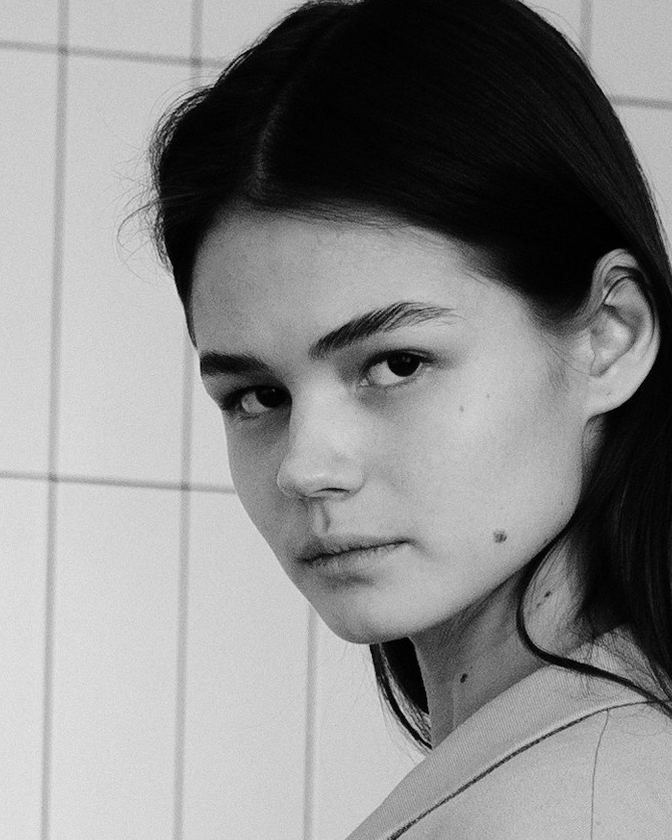
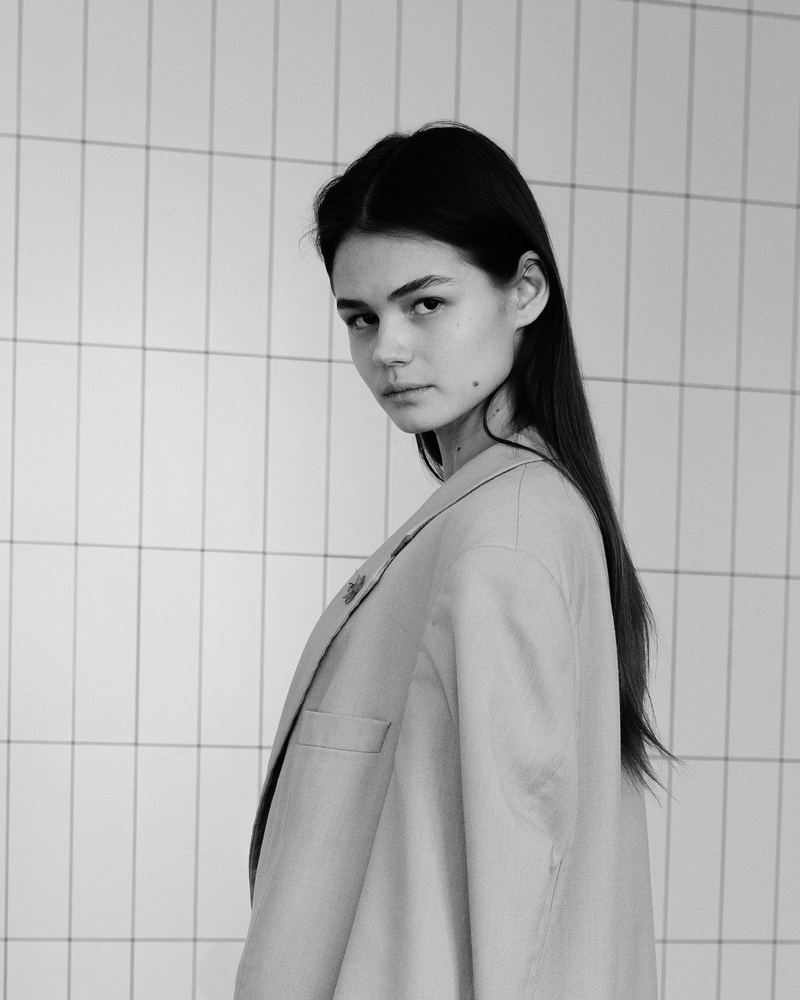
Top-align the hero and frame posters with headroom.
The headline sits under the header rule, and the poster mosaic matches that column: 9:16 as the tall anchor, 4:5 over 1:1, 16:9 across the bottom. The default crop keeps a face on the upper third with hair and shoulders in frame.

diff --git a/src/styles.css b/src/styles.css
@@ -122,10 +122,10 @@ html[lang="zh-Hans"] .lang.is-on { font-weight: 700; }
 
 .hero {
   display: grid;
-  grid-template-columns: minmax(0, 1.15fr) minmax(260px, 0.85fr);
-  gap: 36px 40px;
-  align-items: end;
-  margin-top: 40px;
+  grid-template-columns: minmax(0, 1fr) minmax(220px, 360px);
+  column-gap: 40px;
+  align-items: start;
+  margin-top: 28px;
 }
 
 .tagline {
@@ -165,29 +165,57 @@ html[lang="zh-Hans"] .lede {
 
 .block { margin-top: 88px; }
 
+/* Mosaic matches the copy column. 9:16 is the tall left anchor, 4:5 over 1:1,
+   16:9 across the bottom. Ratios assume a 2cqw gutter (see frame comment in crop). */
 .posters {
-  display: grid;
-  grid-template-columns: minmax(120px, 0.72fr) minmax(0, 1fr);
-  grid-template-areas:
-    "tall square"
-    "tall four"
-    "wide wide";
-  gap: 12px 14px;
-  align-items: end;
-  height: auto;
+  position: relative;
+  align-self: stretch;
+  min-height: 100%;
+  margin: 0;
+  container-type: size;
+}
+.mosaic {
+  position: absolute;
+  top: 0;
+  right: 0;
+  width: min(100cqw, calc(100cqh * 0.639154));
+  aspect-ratio: 0.639154;
+  container-type: inline-size;
+}
+.mosaic-inner {
+  display: flex;
+  flex-direction: column;
+  gap: 2cqw;
+  height: 100%;
+}
+.poster-top {
+  display: flex;
+  flex: 2.2968 1 0;
+  gap: 2cqw;
+  min-height: 0;
+}
+.poster-side {
+  display: flex;
+  flex: 1 1 0;
+  flex-direction: column;
+  gap: 2cqw;
+  min-width: 0;
+  min-height: 0;
+}
+.poster {
+  position: relative;
+  min-width: 0;
   min-height: 0;
   margin: 0;
 }
-.poster {
-  display: flex;
-  flex-direction: column;
-  min-width: 0;
-  margin: 0;
-}
+.poster-916 { flex: 1.2919 1 0; }
+.poster-45 { flex: 1.25 1 0; }
+.poster-11 { flex: 1 1 0; }
+.poster-169 { flex: 1.3155 1 0; }
 .poster img {
   width: 100%;
-  height: auto;
-  object-fit: contain;
+  height: 100%;
+  object-fit: cover;
   object-position: center;
   border: 1px solid var(--ink);
   border-radius: 0;
@@ -196,7 +224,9 @@ html[lang="zh-Hans"] .lede {
   background: var(--paper);
 }
 .poster figcaption {
-  margin-top: 6px;
+  position: absolute;
+  left: 7px;
+  bottom: 7px;
   color: var(--accent);
   font-family: var(--mono);
   font-size: 11px;
@@ -204,10 +234,6 @@ html[lang="zh-Hans"] .lede {
   letter-spacing: 0.04em;
   line-height: 1;
 }
-.poster-916 { grid-area: tall; }
-.poster-45 { grid-area: square; }
-.poster-11 { grid-area: four; }
-.poster-169 { grid-area: wide; }
 
 .drop {
   display: flex;
@@ -607,7 +633,23 @@ html[lang="zh-Hans"] .checked { letter-spacing: 0; }
   .hero-copy { display: contents; }
   .tagline { order: 1; }
   .lede { order: 2; }
-  .posters { order: 3; height: auto; min-height: 0; max-width: 560px; }
+  .posters {
+    order: 3;
+    position: relative;
+    align-self: auto;
+    width: 100%;
+    max-width: 420px;
+    height: auto;
+    min-height: 0;
+    container-type: normal;
+  }
+  .mosaic {
+    position: relative;
+    top: auto;
+    right: auto;
+    width: 100%;
+    aspect-ratio: 0.639154;
+  }
   #hero-slot { order: 4; }
   .hero {
     grid-template-columns: 1fr;

diff --git a/src/crop/frame.ts b/src/crop/frame.ts
@@ -69,16 +69,23 @@ function inSafe(fx: number, fy: number, safe: SafeFrac | null): boolean {
 }
 
 /**
+ * Where a subject sits when nothing is covering the frame.
+ * Upper third, not the middle: campaign-poster framing, with room above the head.
+ */
+const OPEN_ANCHOR = { x: 0.5, y: 0.33 };
+
+/**
  * Cover-crop of `targetW/targetH` inside the source.
- * The window shifts toward the safe-area centroid. It zooms in only when a
- * shift still leaves the subject under a covered band, or when the subject
- * is small enough to fill the safe area.
+ * The window shifts toward the safe-area centroid, or the upper third when
+ * the frame is open. It zooms in only when a shift still leaves the subject
+ * under a covered band, or when the subject is small enough to fill its share
+ * of the frame. That share stays loose so a face box keeps hair and shoulders.
  */
 export function frameCrop(input: FrameInput): CropRect {
   const { srcW, srcH, targetW, targetH } = input;
   const aspect = targetW / targetH;
   const base = maxCropSize(srcW, srcH, targetW, targetH);
-  const anchor = input.safe ? safeAnchor(input.safe) : { x: 0.5, y: 0.5 };
+  const anchor = input.safe ? safeAnchor(input.safe) : OPEN_ANCHOR;
   const subject = input.subject;
 
   let cw = base.w;
@@ -87,7 +94,9 @@ export function frameCrop(input: FrameInput): CropRect {
   if (subject && subject.w > 1 && subject.h > 1) {
     const safeW = input.safe ? Math.max(0.25, 1 - input.safe.left - input.safe.right) : 0.82;
     const safeH = input.safe ? Math.max(0.25, 1 - input.safe.top - input.safe.bottom) : 0.82;
-    const fill = 0.72;
+    // 0.28 × 0.82 ≈ 23% of an open frame, so a face box keeps hair above it and shoulders below.
+    // 0.72 framed that same box like a passport crop.
+    const fill = 0.28;
     let wantH = subject.h / (fill * safeH);
     let wantW = wantH * aspect;
     const wantW2 = subject.w / (fill * safeW);

diff --git a/index.html b/index.html
@@ -44,21 +44,29 @@
         <div id="hero-slot"></div>
       </div>
       <figure class="posters">
-        <div class="poster poster-916">
-          <img src="/samples/hero/9x16.jpg" alt="" width="506" height="900">
-          <figcaption>9:16</figcaption>
-        </div>
-        <div class="poster poster-45">
-          <img src="/samples/hero/4x5.jpg" alt="" width="672" height="840">
-          <figcaption>4:5</figcaption>
-        </div>
-        <div class="poster poster-11">
-          <img src="/samples/hero/1x1.jpg" alt="" width="840" height="840">
-          <figcaption>1:1</figcaption>
-        </div>
-        <div class="poster poster-169">
-          <img src="/samples/hero/16x9.jpg" alt="" width="1100" height="619">
-          <figcaption>16:9</figcaption>
+        <div class="mosaic">
+          <div class="mosaic-inner">
+            <div class="poster-top">
+              <div class="poster poster-916">
+                <img src="/samples/hero/9x16.jpg" alt="" width="720" height="1280">
+                <figcaption>9:16</figcaption>
+              </div>
+              <div class="poster-side">
+                <div class="poster poster-45">
+                  <img src="/samples/hero/4x5.jpg" alt="" width="800" height="1000">
+                  <figcaption>4:5</figcaption>
+                </div>
+                <div class="poster poster-11">
+                  <img src="/samples/hero/1x1.jpg" alt="" width="900" height="900">
+                  <figcaption>1:1</figcaption>
+                </div>
+              </div>
+            </div>
+            <div class="poster poster-169">
+              <img src="/samples/hero/16x9.jpg" alt="" width="1280" height="720">
+              <figcaption>16:9</figcaption>
+            </div>
+          </div>
         </div>
       </figure>
     </div>

diff --git a/tests/crop.test.ts b/tests/crop.test.ts
@@ -125,6 +125,33 @@ describe("crop math", () => {
     inside(panned, 1920, 1080);
   });
 
+  it("puts a face on the upper third with room for hair and shoulders", () => {
+    const face = { cx: 1901, cy: 1245, w: 396, h: 396 };
+    for (const [targetW, targetH] of [
+      [9, 16],
+      [4, 5],
+      [1, 1],
+      [16, 9],
+    ] as const) {
+      const crop = frameCrop({
+        srcW: 4000,
+        srcH: 5600,
+        targetW,
+        targetH,
+        subject: face,
+        safe: null,
+      });
+      inside(crop, 4000, 5600);
+      const fy = (face.cy - crop.y) / crop.h;
+      expect(fy).toBeGreaterThan(0.28);
+      expect(fy).toBeLessThan(0.4);
+      const above = face.cy - face.h / 2 - crop.y;
+      expect(above).toBeGreaterThan(face.h * 0.6);
+      const below = crop.y + crop.h - (face.cy + face.h / 2);
+      expect(below).toBeGreaterThan(face.h);
+    }
+  });
+
   it("pulls the TikTok anchor left of center because of the icon column", () => {
     const anchor = safeAnchor({
       top: 0.125,

diff --git a/README.md b/README.md
@@ -24,7 +24,7 @@ npm run build
 - Nothing is selected at first. Platforms are tabs; the tab shows how many sizes are picked. Quick picks cover 9:16 stories and reels, feed squares, vertical, landscape, and all.
 - Outputs are de-duplicated by exact pixel size. One file can cover several placements; the grid and `manifest.txt` say which. `1200×628` and `800×418` stay separate, because 1.911 and 1.914 are not the same crop.
 - JPG, PNG, and WebP are drawn to a canvas and zipped. JPEG quality steps down to meet the strictest file-size limit on that size.
-- Faces, then people, are found with MediaPipe (BlazeFace, then EfficientDet). A person box that fills a wide frame is re-checked on overlapping halves so the crop sits on the body. If nothing is there, it uses the busiest part of the frame, then the center.
+- Faces, then people, are found with MediaPipe (BlazeFace, then EfficientDet). A person box that fills a wide frame is re-checked on overlapping halves so the crop sits on the body. If nothing is there, it uses the busiest part of the frame, then the center. With no safe zone, the subject sits on the upper third and the zoom stays loose enough to keep hair and shoulders in frame.
 - Drag and scroll on a preview pan and zoom.
 - Safe zones can be drawn per platform. The crop shifts to keep the subject out of them, and only zooms in when a shift is not enough.
 - A size that breaks minimum resolution, file size, or format is marked in red with a plain reason. It is still in the zip.
